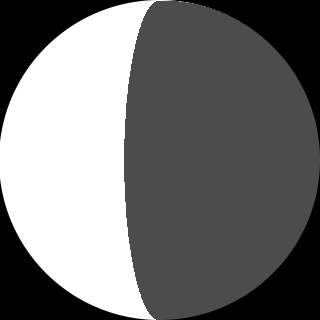
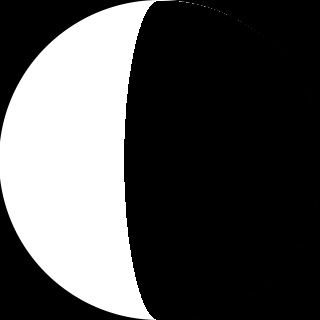
compare script done + new phase images

diff --git a/compare.py b/compare.py
@@ -17,7 +17,9 @@ def resize_images(img1, img2):
 
 def binarize_image(image):
     img1_gray = cv2.cvtColor(image, cv2.COLOR_BGR2GRAY)
-    _, img1_binary = cv2.threshold(img1_gray, 100, 255, cv2.THRESH_BINARY)
+    _, img1_binary = cv2.threshold(img1_gray, 50, 255, cv2.THRESH_BINARY)
+    # img1_binary = cv2.adaptiveThreshold(img1_gray, 255, cv2.ADAPTIVE_THRESH_MEAN_C, \
+    #                      cv2.THRESH_BINARY, 11, 2)
     return img1_binary
 
 def compare_images(image1, image2):
@@ -31,7 +33,7 @@ def compare_images(image1, image2):
 
 
 # Exemple d'utilisation
-image_path1 = "Images/paysages/Ciel03-edit.jpg"
+image_path1 = "Images/Paysages/Ciel03-edit.jpg"
 folder_path = "Images/phases/"
 
 most_compatible = ''
@@ -45,6 +47,7 @@ for i in range(29):  # Images numérotées de 0 à 28
     if compatibility > max_compatibility:
         max_compatibility = compatibility
         most_compatible = image2
+        most_compatible_name = f"{i}.png"
 
 # Afficher les images binaires pour comparaison visuelle
 plt.subplot(1, 2, 1)
@@ -53,7 +56,7 @@ plt.title('Image 1 (binaire)')
 
 plt.subplot(1, 2, 2)
 plt.imshow(most_compatible, cmap='gray')
-plt.title('Image 2 (binaire)')
+plt.title(most_compatible_name)
 
 plt.show()
 

diff --git a/gen.py b/gen.py
@@ -9,7 +9,7 @@ for idphase, phase in enumerate(phases):
     with Image(filename='./images/white_circle.jpg') as img:
         radius = img.height // 2
         with Drawing() as draw:
-            draw.fill_color = Color("rgba(0, 0, 0, 0.7)")
+            draw.fill_color = Color("rgba(0, 0, 0, 1)")
             if phase < 0:
                 phase = abs(phase)
                 for y in range(radius):
